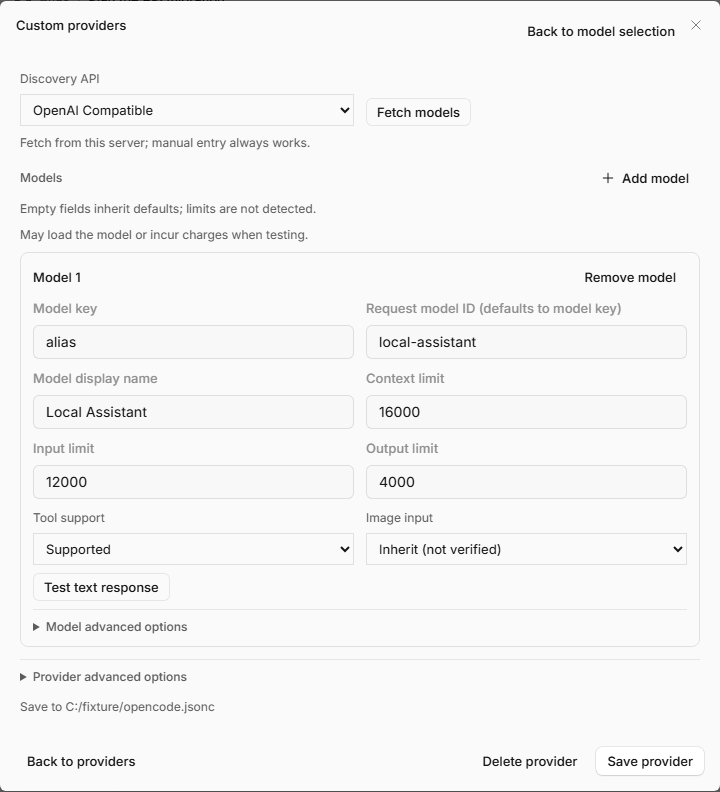
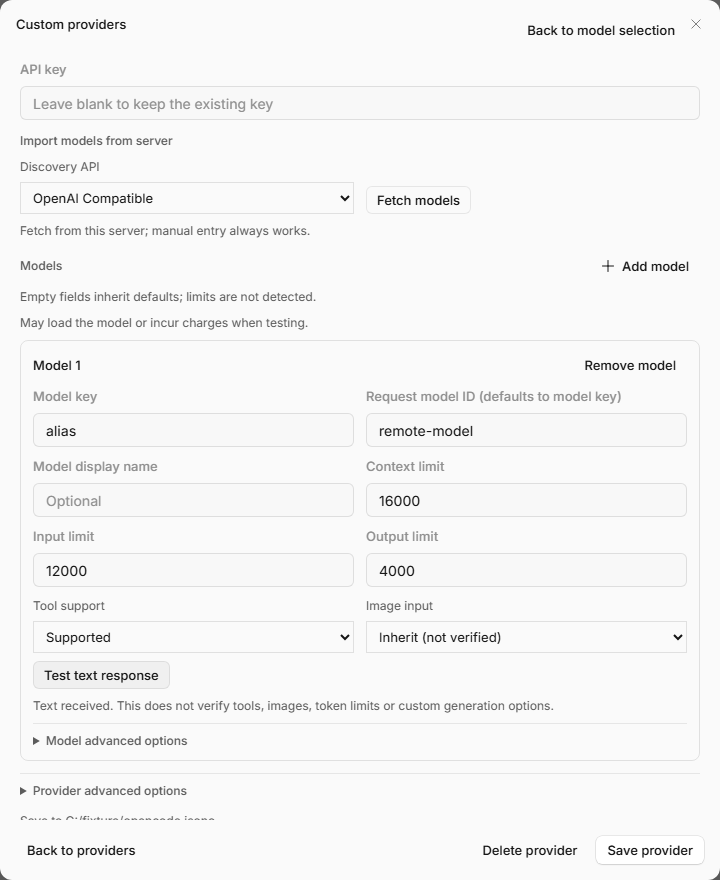
docs(dev-my): refresh desktop screenshots and record asset cleanup

diff --git a/README.md b/README.md
@@ -61,15 +61,15 @@ Share feedback and ideas through [GitHub Issues](https://github.com/joe-ieta/Ope
 - **Model visibility.** Use **Manage models** to choose which models appear in the picker. Close the panel to return to the same picker.
 - **Built-in integrations.** Open **Connect an integration** from the picker footer or from the search field on desktop. Confirming removal deletes the integration's saved credentials and refreshes the model catalog.
 
-## Personalization features at a glance
+## Desktop screenshots
 
-- **Side bar** · Select **Side bar** under **Settings → General → Interface layout**. Pin or collapse projects, browse recent sessions by project, and see running work across connected servers, including background Shell tasks and subagents.
+- **Side bar** · Add projects or search sessions from the top of the sidebar. Browse by project or recent activity and see running sessions across connected servers.
 
-  <img src="docs/fork/dev-my/side-bar-en.png" alt="Side bar with project groups, recent sessions, and running work">
+  <img src="docs/fork/dev-my/side-bar-en.png" alt="Side bar with Add project, Search sessions, project groups, and running sessions across two servers">
 
-- **Custom models** · Open **Custom providers** from the model picker to configure a global OpenAI-compatible provider. Discover and import models or enter them manually, set the display name, request ID, and context limit, and test text responses. Use **Manage models** to choose which models appear in the picker.
+- **Custom models** · Open **Custom providers** from the model picker to fetch models or add them manually. Test a saved model and see the result alongside its configuration.
 
-  <img src="docs/fork/dev-my/custom-models-en.png" alt="Custom provider model form with the request ID, display name, context limit, and text test">
+  <img src="docs/fork/dev-my/custom-models-en.png" alt="Custom provider editor with model discovery, model settings, and a successful text test">
 
 _Screenshots use sample data._
 

diff --git a/docs/fork/dev-my/releases.md b/docs/fork/dev-my/releases.md
@@ -25,7 +25,7 @@
 | --- | --- | --- | --- |
 | 正式发行（Latest） | `v2.3.0-my.24` | Windows x64、Linux amd64/arm64 | [NSIS、AppImage、deb 与校验文件](https://github.com/joe-ieta/OpenCode.My/releases/tag/v2.3.0-my.24) |
 
-早于 `v2.3.0-my.18` 的桌面发行保留发行页、说明和源码标签，其历史附件已清理。下方记录中的旧附件链接仅供追溯。两条 headless 发行线单独管理。
+早于 `v2.3.0-my.24` 的桌面发行保留发行页、说明和源码标签，其历史附件已清理。下方记录中的旧附件链接仅供追溯。两条 headless 发行线单独管理。
 
 ## v2.3.0-my.24 正式发行（Windows x64 / Linux amd64、arm64）
 
@@ -35,6 +35,7 @@
[1 lines of base64/hex data omitted]
 - Linux `bun run check` 35/35。四个 Linux 安装包通过解包、架构、版本、桌面入口及更新源核验；两种架构通过 CLI 服务发现、历史迁移、HTTP 健康和 SSE 冒烟，arm64 使用 QEMU。
 - 全部 10 个附件的大小、SHA256 和公开下载链接均已核验。`.24` 已转为正式发行并设为 GitHub Latest。[发行页](https://github.com/joe-ieta/OpenCode.My/releases/tag/v2.3.0-my.24)
+- 清理了早于 `.24` 的桌面发行附件，涉及 `.18`、`.19`、`.20`、`.21`、`.22` 共 5 个发行、38 个附件。已核验历史发行页面、发布说明和源码标签均保留，`oc-headless` 与 `qt-headless` 发行附件未受影响。`.24` 清理后仍是 Latest，10 个资产全部保留。
 
 ## v2.3.0-my.22 正式发行（Windows x64 / Linux amd64、arm64）
 
